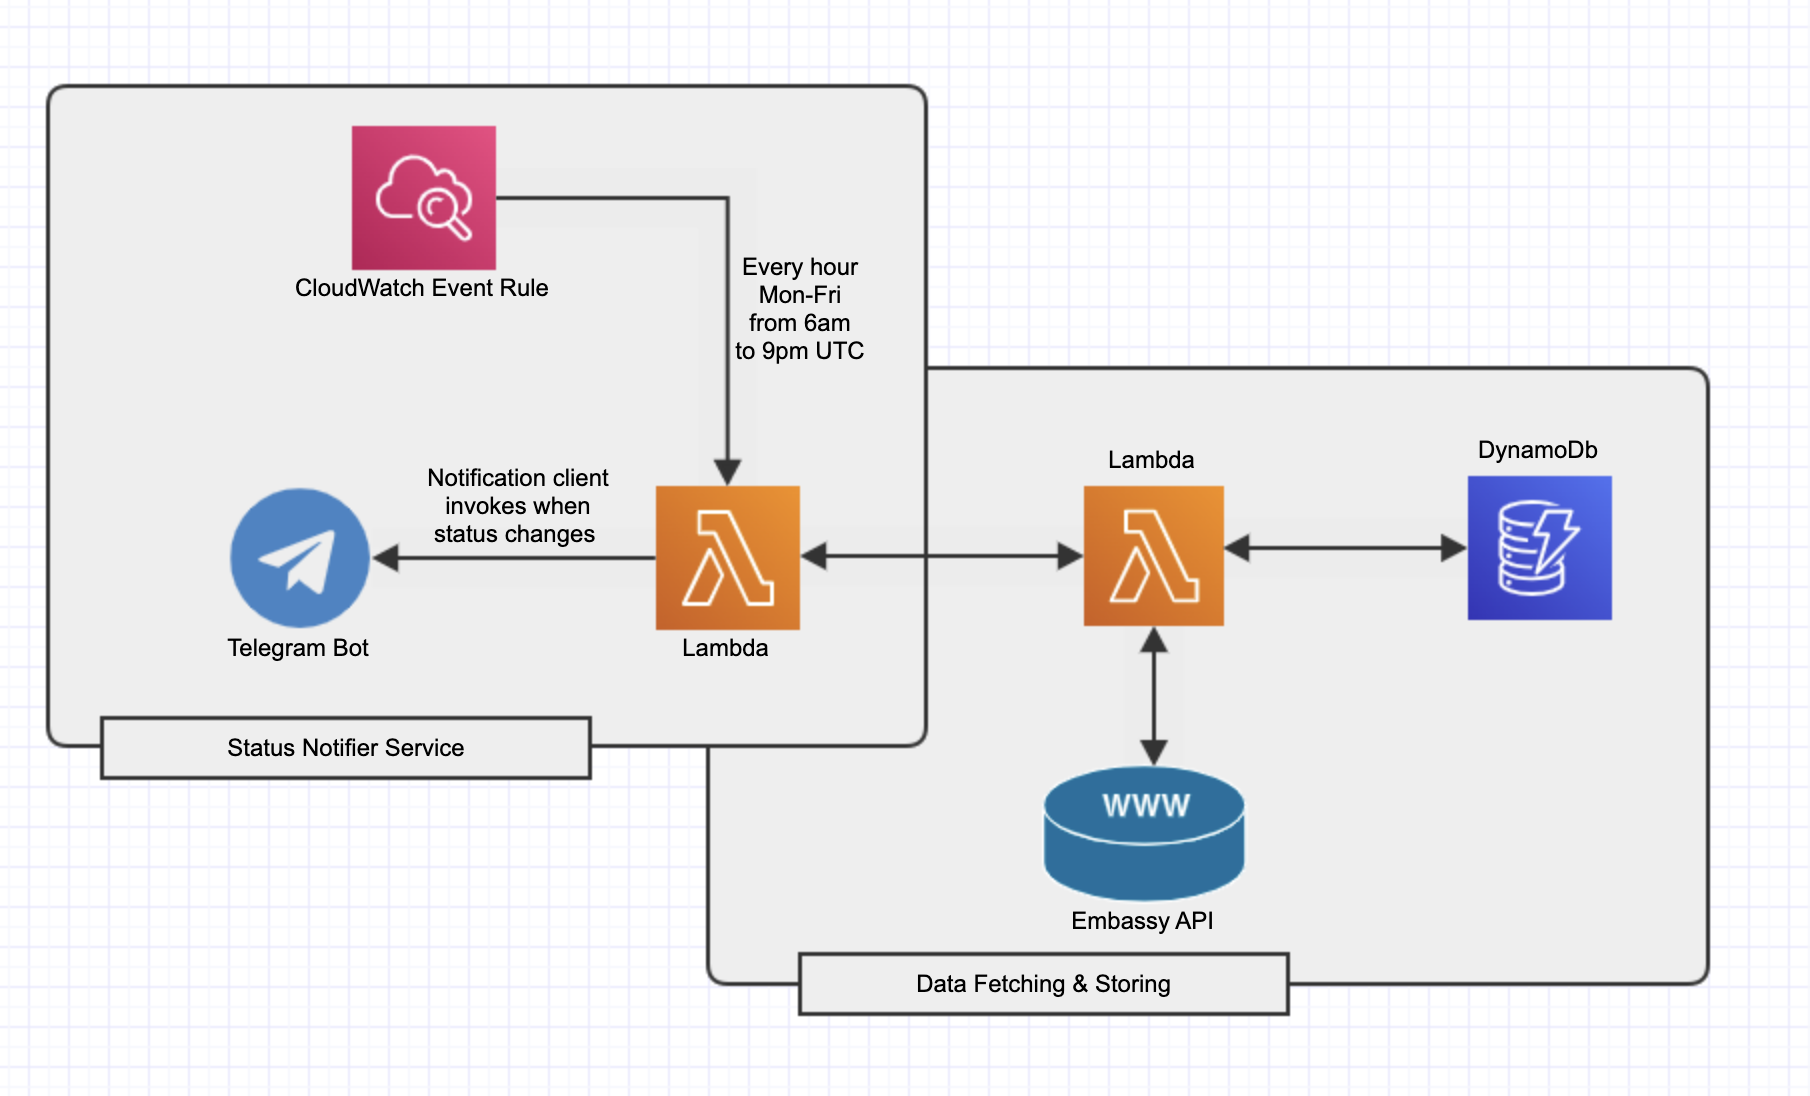
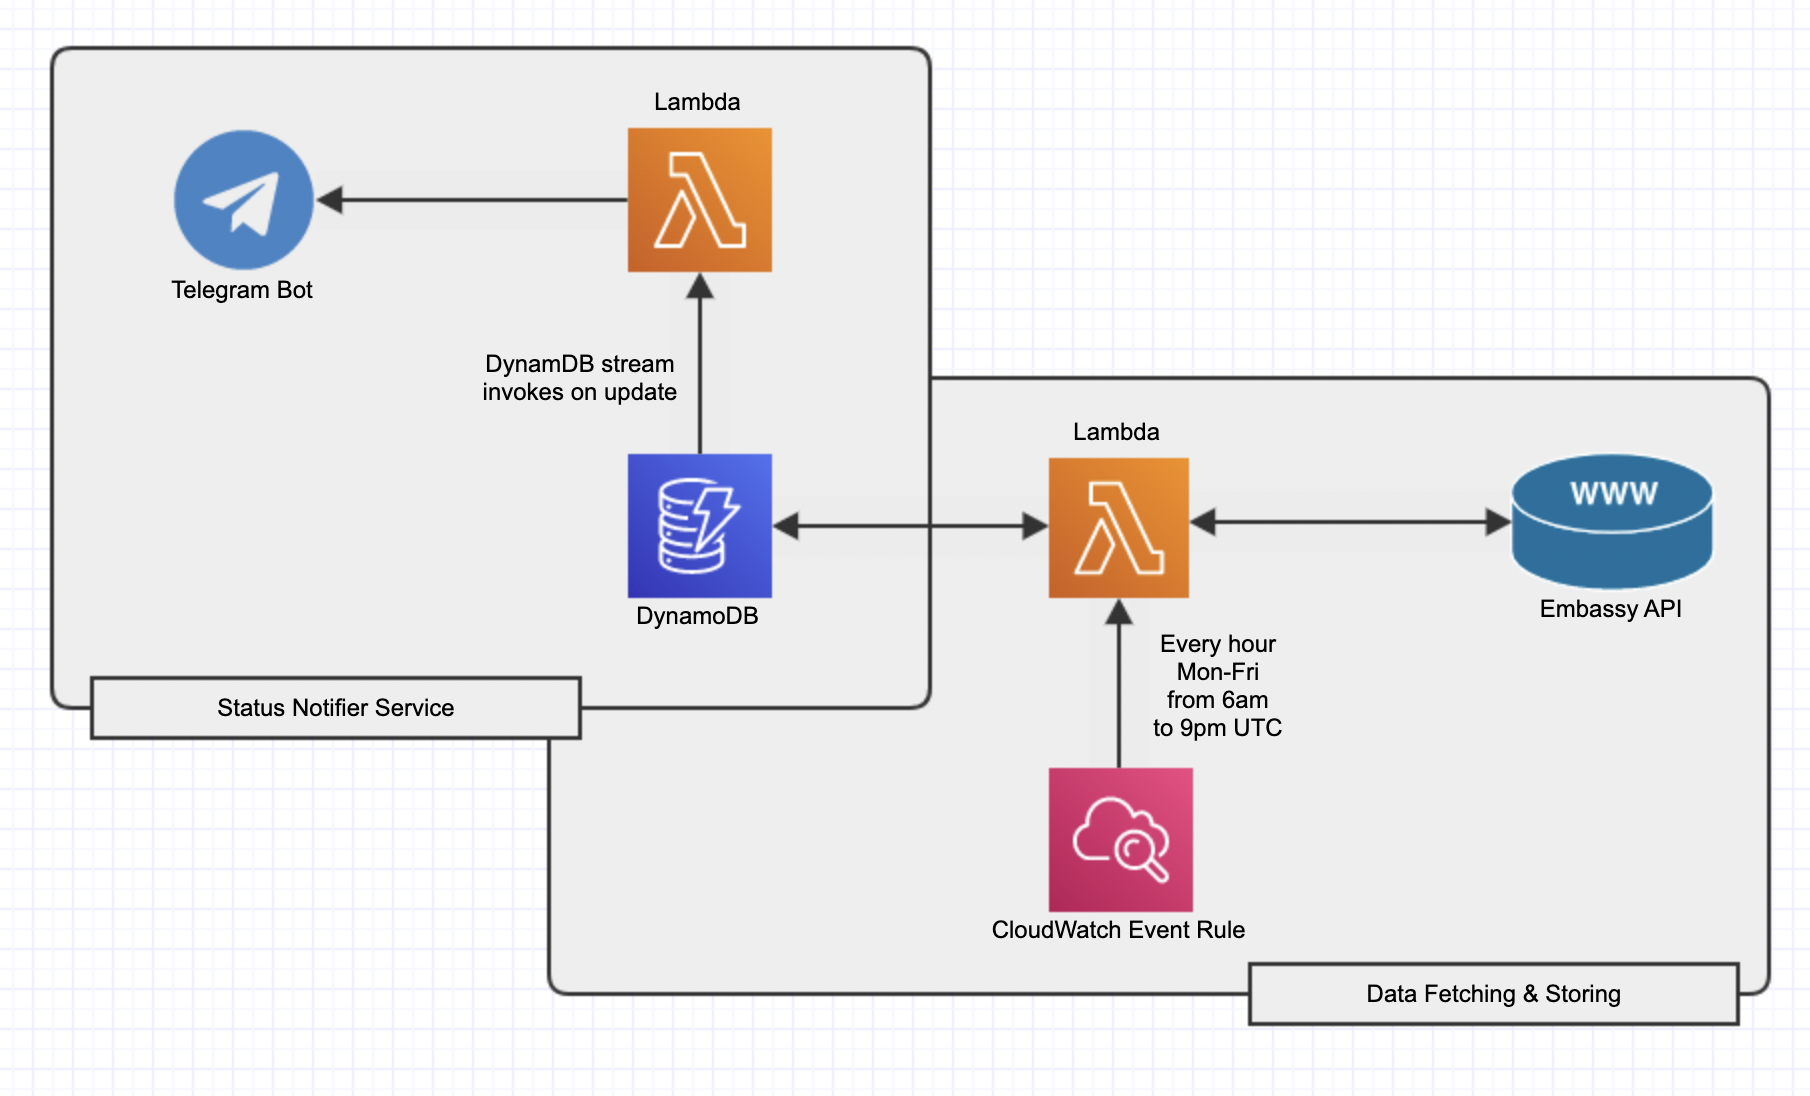
Change application architecture to use dynamoDB streams for notification service invokation

Changed region(s): [[0.0, 0.031, 0.9901, 0.9617]]

diff --git a/services/status_notifier/src/notifiers/telegramNotifier.ts b/services/status_notifier/src/notifiers/telegramNotifier.ts
@@ -11,21 +11,19 @@ export default class TelegramNotifier {
   }
 
   async notifyClient() {
-    const chatId = process.env.TELEGRAM_CLIENT_ID;
-    const text = `
-      Статус заявки ${this.responseBody.uid} изменился на ${this.responseBody.status}
-      \nСтатус заявки внутренний ${this.responseBody.internalStatus}
-      \nПроцент выполнения ${this.responseBody.percent}
-      \nДата поступления ${this.responseBody.createdAt}
-      \nПоследнее обновление ${this.responseBody.updatedAt}
-    `;
+    const text =
+      `Новый статус заявки:  ${this.responseBody.status}` +
+      `\nВнутренний статус: ${this.responseBody.internalStatus}` +
+      `\nПроцент выполнения: ${this.responseBody.percent}` +
+      `\nДата получения: ${this.responseBody.createdAt}` +
+      `\nДата последнего обновления: ${this.responseBody.updatedAt}`;
 
-    await this.sendMessage(chatId, text);
+    await this.sendMessage(text);
   }
 
-  private async sendMessage(chatId: string, text: string) {
+  private async sendMessage(text: string) {
+    const data = { chat_id: process.env.TELEGRAM_CLIENT_ID, text };
     const url = `${this.BOT_API_URL}/sendMessage`;
-    const data = { chatId, text };
 
     return axios.post(url, data);
   }

diff --git a/services/application_status_fetcher/src/app.ts b/services/application_status_fetcher/src/app.ts
@@ -1,6 +1,6 @@
 import AWS from 'aws-sdk';
 import MidPassFetcher from './fetchers/MidPassFetcher';
-import { getRequest, putRequest, dynamoDbData } from './helpers/dynamodb';
+import { getRequest, putRequest } from './helpers/dynamodb';
 import applicationStatusData from './models/applicationStatus';
 
 AWS.config.update({ region: 'eu-central-1' });
@@ -8,30 +8,11 @@ AWS.config.update({ region: 'eu-central-1' });
 export const lambdaHandler = async () => {
   const statusFetcher = new MidPassFetcher(process.env.APPLICATION_ID);
   const newStatusData: applicationStatusData = await statusFetcher.getStatus();
-  const oldStatusData: dynamoDbData = await getRequest(newStatusData.uid);
+  const oldStatusData: applicationStatusData = await getRequest(newStatusData.uid);
 
-  if (oldStatusData?.status === newStatusData.status)
-    return {
-      statusCode: 200,
-      body: {
-        changed: false,
-        applicationStatus: { ...oldStatusData }
-      }
-    };
-
-  await putRequest({
-    uid: newStatusData.uid,
-    status: newStatusData.status,
-    updatedAt: new Date().toUTCString()
-  });
-
-  return {
-    statusCode: 200,
-    body: {
-      changed: true,
-      applicationStatus: JSON.stringify({ ...newStatusData })
-    },
-  };
+  if (oldStatusData?.status !== newStatusData.status) {
+    await putRequest(newStatusData)
+  }
 };
 
 lambdaHandler()

diff --git a/services/status_notifier/src/app.ts b/services/status_notifier/src/app.ts
@@ -1,28 +1,13 @@
 import AWS from 'aws-sdk';
-import applicationStatusData from './models/applicationStatus';
-import TelegramNotifier from './notifiers/telegramNotifier';
+import TelegramNotifier from './notifiers/TelegramNotifier';
+import { serializeDynamodbRecord } from './helpers/dynamodb';
 
 AWS.config.update({ region: 'eu-central-1' });
 
-export const lambdaHandler = async () => {
-  const passportStatus = new AWS.Lambda();
+export const lambdaHandler = async (event) => {
+  const statusData = serializeDynamodbRecord(event.Records[0]);
 
-  const params = {
-    FunctionName: 'application_status_api',
-    InvocationType: 'RequestResponse',
-    LogType: 'Tail',
-    Payload: '{}'
-  };
+  const notifier = new TelegramNotifier(statusData);
 
-  const response = await passportStatus.invoke(params).promise();
-  const payload = JSON.parse(response.Payload.toString());
-
-  if (payload.statusCode !== 200 || !payload.body.changed) return;
-
-  const applicationStatus = JSON.parse(payload.body.applicationStatus) as applicationStatusData;
-
-  const notifier = new TelegramNotifier(applicationStatus);
   await notifier.notifyClient();
 };
-
-lambdaHandler();

diff --git a/services/application_status_fetcher/src/helpers/dynamodb.ts b/services/application_status_fetcher/src/helpers/dynamodb.ts
@@ -1,23 +1,18 @@
 import AWS from 'aws-sdk';
+import applicationStatusData from '../models/applicationStatus';
 
-export type dynamoDbData = {
-  uid: string,
-  status: string,
-  updatedAt: string
-};
-
-export async function putRequest(data: dynamoDbData) {
+export async function putRequest(data: applicationStatusData) {
   const documentClient = new AWS.DynamoDB.DocumentClient();
 
   const params = {
     TableName: process.env.TABLE_NAME,
-    Item: data
+    Item: { updatedAt: new Date().toUTCString(), ...data }
   };
 
   documentClient.put(params).promise();
 }
 
-export async function getRequest(uid: string): Promise<dynamoDbData> {
+export async function getRequest(uid: string): Promise<applicationStatusData> {
   const documentClient = new AWS.DynamoDB.DocumentClient();
 
   const params = {
@@ -27,5 +22,5 @@ export async function getRequest(uid: string): Promise<dynamoDbData> {
 
   const request_data = await documentClient.get(params).promise()
 
-  return request_data.Item as dynamoDbData;
+  return request_data.Item as applicationStatusData;
 }

diff --git a/services/status_notifier/src/helpers/dynamodb.ts b/services/status_notifier/src/helpers/dynamodb.ts
@@ -1,0 +1,14 @@
+import applicationStatusData from '../models/applicationStatus';
+
+export function serializeDynamodbRecord(record): applicationStatusData {
+  const data = record.dynamodb.NewImage;
+
+  return {
+    uid: data.uid.S,
+    status: data.status.S,
+    internalStatus: data.internalStatus.S,
+    percent: data.percent.N,
+    createdAt: data.createdAt.S,
+    updatedAt: data.updatedAt.S,
+  };
+}

diff --git a/services/application_status_fetcher/src/fetchers/MidPassFetcher.ts b/services/application_status_fetcher/src/fetchers/MidPassFetcher.ts
@@ -20,7 +20,6 @@ export default class MidPassFetcher {
         internalStatus: response.data.internalStatus.name,
         percent: response.data.internalStatus.percent,
         createdAt: response.data.receptionDate,
-        updatedAt: new Date().toUTCString()
       };
 
     return this.status;

diff --git a/services/status_notifier/src/models/applicationStatus.ts b/services/status_notifier/src/models/applicationStatus.ts
@@ -1,5 +1,5 @@
 export default interface applicationStatusData {
-  uid: string,
+  uid: string;
   status: string;
   internalStatus: string;
   percent: number;
